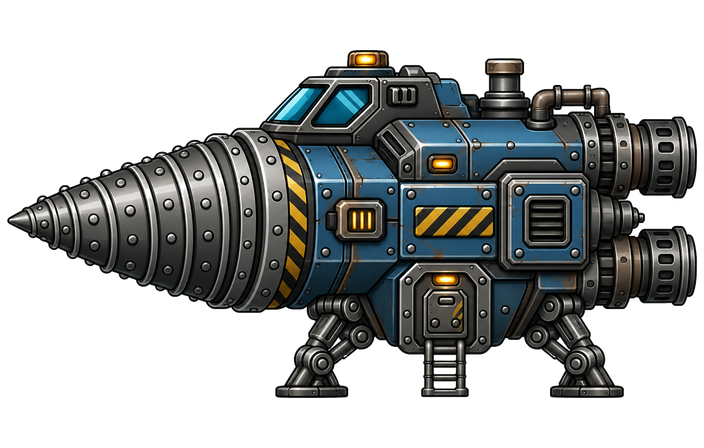
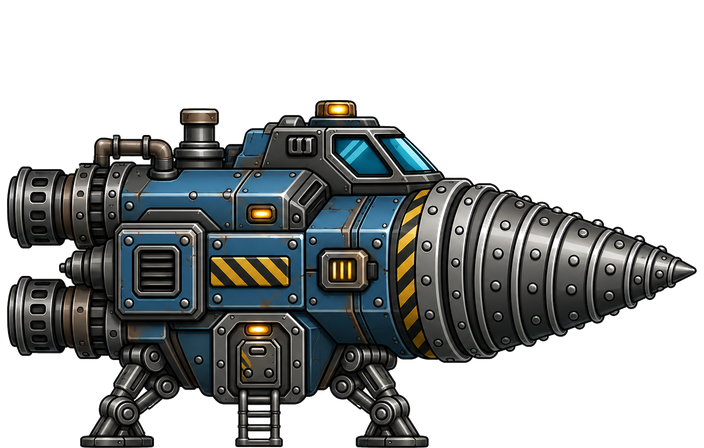
fix: orient drill ship into tunnel

diff --git a/src/scenes/GameScene.ts b/src/scenes/GameScene.ts
@@ -24,7 +24,7 @@ import { atlasFrameForTile, backwallFrameForTile, tileKey, worldToTile } from '.
 type CursorKeys = Phaser.Types.Input.Keyboard.CursorKeys;
 type Facing = 'east' | 'west';
 
-const GENERATED_ASSET_VERSION = 'ship-redraw-highres-20260502-1140';
+const GENERATED_ASSET_VERSION = 'ship-orientation-ground-fix-20260502-1149';
 const START_TUNNEL_LEFT_TILE = -10;
 const START_TUNNEL_TOP_TILE = -2;
 const START_TUNNEL_WIDTH_TILES = 12;
